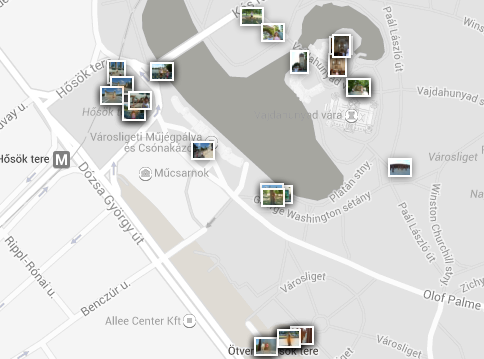
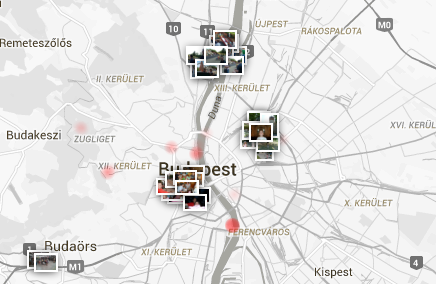
update screenshot and README

diff --git a/README.md b/README.md
@@ -1,6 +1,8 @@
 photomap
 ========
 
+Photomap shows your photos on a map using the Google Maps JavaScript API.
+
 ![Screenshot](/misc/screenshot.png)
 
 If you have [Go](http://golang.org) photomap can be installed with:
@@ -15,7 +17,6 @@ Goals
 
 Short term
 
-- Group nearby photos together (avoid overlap)
 - Clickable photo icons
 - Add full screen photo view
 - Camlistore support
